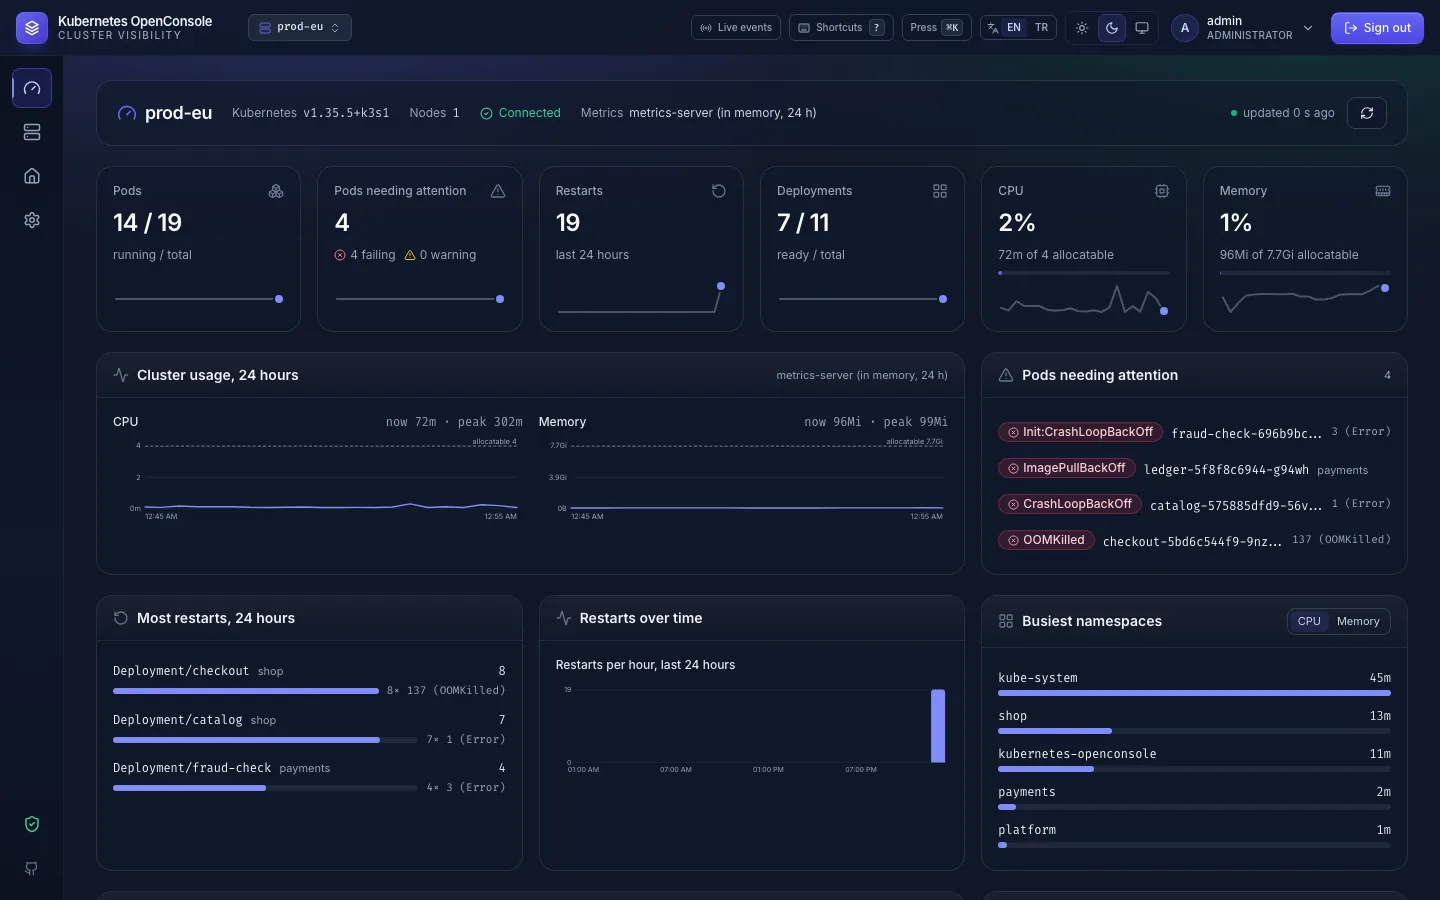
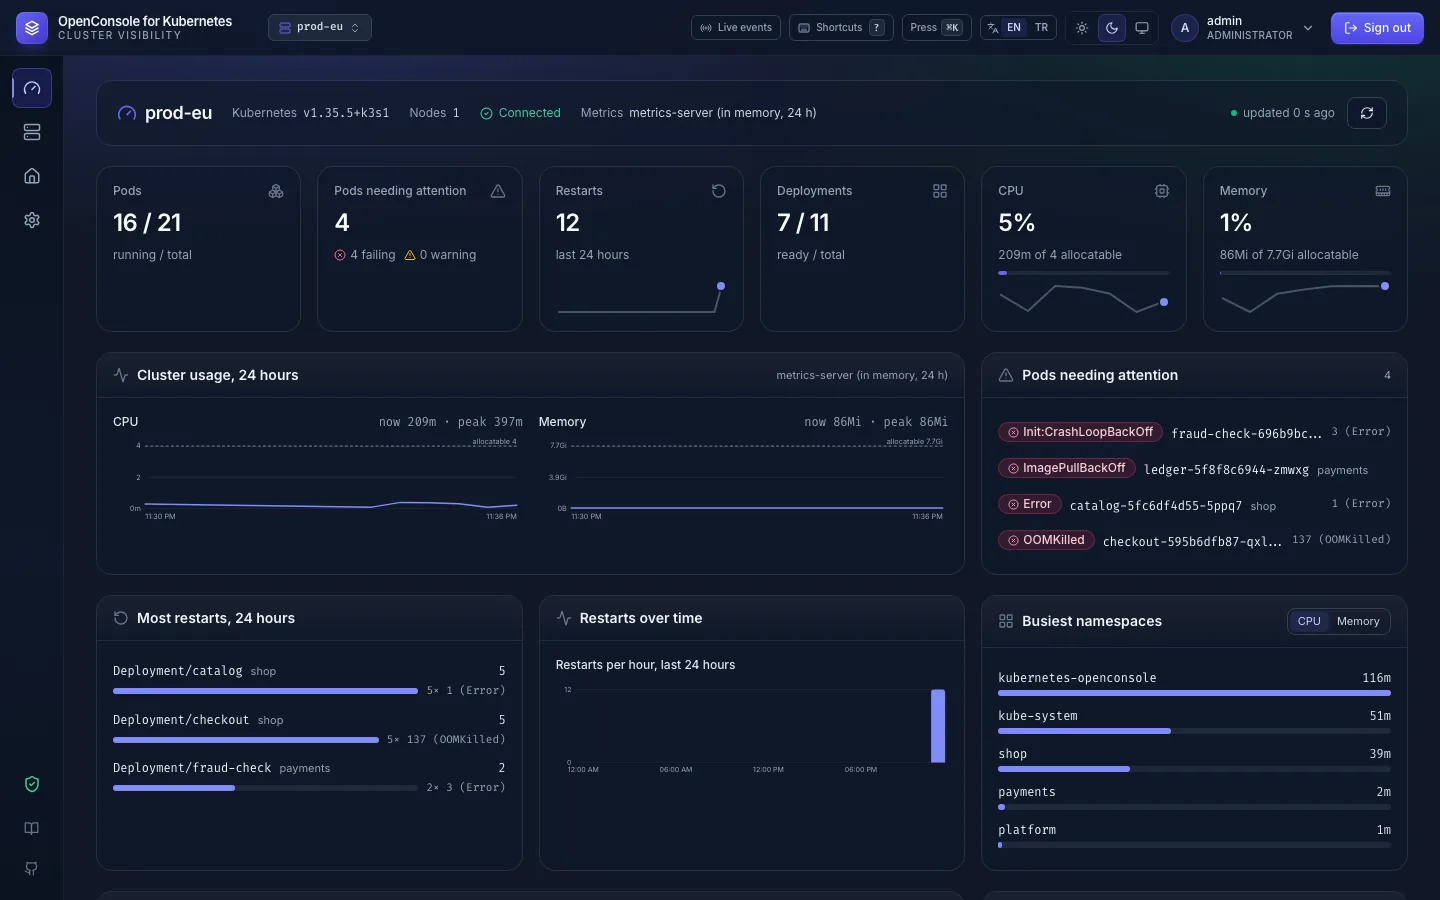
OpenConsole for Kubernetes 2.23.1: pins, screenshots and docs reference

diff --git a/_posts/2026-01-16-kubernetes-openconsole-dashboard-ui.md b/_posts/2026-01-16-kubernetes-openconsole-dashboard-ui.md
@@ -1,7 +1,7 @@
 ---
 title: "OpenConsole for Kubernetes: Multi-Cluster Operations and API Access"
 date: 2026-01-16 19:20:00 +0300
-last_modified_at: 2026-11-16 20:30:00 +0300
+last_modified_at: 2026-11-17 00:20:00 +0300
 description: "Run OpenConsole for Kubernetes 2.23 with scoped cluster access, live logs, recorded shells and API keys for scripts and AI agents."
 image:
   path: /assets/img/posts/openconsole-2.23/dashboard-cards.en.light.webp
@@ -21,7 +21,7 @@ The distinction matters: **the current console is not read-only by default at th
 
 [Read the documentation](https://k8sopenconsole.github.io/) · [Türkçe dokümantasyon](https://k8sopenconsole.github.io/tr/) · [Source and releases](https://github.com/vurulkan/kubernetes-openconsole).
 
-This guide follows the published **2.23** documentation and **2.23.0** image. The screenshots come from the documentation project's demo environment; the workloads and users shown are fictional.
+This guide follows the published **2.23** documentation and **2.23.1** image. The screenshots come from the documentation project's demo environment; the workloads and users shown are fictional.
 
 ## What the current console includes
 
@@ -75,10 +75,10 @@ The pod does **not** automatically adopt its mounted ServiceAccount or discover 
 
 ## Choose an image
 
-The published 2.23 documentation pins release `2.23.0`:
+The published 2.23 documentation pins release `2.23.1`:
 
 ```yaml
-image: ghcr.io/vurulkan/kubernetes-openconsole:2.23.0
+image: ghcr.io/vurulkan/kubernetes-openconsole:2.23.1
 ```
 
 Release images support `linux/amd64` and `linux/arm64`. Pin a release for a reproducible installation. `latest` follows published releases; development images use separate `dev-*` tags. Release images include GitHub build-provenance and SBOM attestations; verification commands are in the repository README.
@@ -95,7 +95,7 @@ docker build -t kubernetes-openconsole:local .
 docker run --rm -p 127.0.0.1:8080:8080 \
   -e TIMEZONE=Europe/Istanbul \
   -v kubernetes-openconsole-data:/data \
-  ghcr.io/vurulkan/kubernetes-openconsole:2.23.0
+  ghcr.io/vurulkan/kubernetes-openconsole:2.23.1
 ```
 
 Open `http://localhost:8080`. The named volume preserves the SQLite database and recordings. This starts the console; cluster access is configured through the UI afterwards.
@@ -110,10 +110,10 @@ Use a small Kustomize directory that pins both the release manifests and the ima
 apiVersion: kustomize.config.k8s.io/v1beta1
 kind: Kustomization
 resources:
-  - https://github.com/vurulkan/kubernetes-openconsole//deploy?ref=v2.23.0
+  - https://github.com/vurulkan/kubernetes-openconsole//deploy?ref=v2.23.1
 images:
   - name: ghcr.io/vurulkan/kubernetes-openconsole
-    newTag: "2.23.0"
+    newTag: "2.23.1"
 patches:
   - patch: |-
       apiVersion: apps/v1
@@ -136,8 +136,8 @@ kubectl -n kubernetes-openconsole rollout status deploy/kubernetes-openconsole -
 
 Before applying, review the manifests for your environment:
 
-- The source manifest uses `latest`; the `images` override pins the container to the same release as `ref=v2.23.0`.
-- Keep **exactly one replica** and the **`Recreate` strategy**. In 2.23.0, overlapping pods can open the same SQLite database and lose writes. `Recreate` stops the old pod before starting its replacement, including during a rollout restart.
+- The source manifest uses `latest`; the `images` override pins the container to the same release as `ref=v2.23.1`.
+- Keep **exactly one replica** and the **`Recreate` strategy** (the release manifests use it since 2.23.1; the patch above keeps it explicit). Overlapping pods would open the same SQLite database, and on 2.23.0 that could lose writes. `Recreate` stops the old pod before starting its replacement, including during a rollout restart.
 - The default PVC is 5 Gi and stores both the database and recordings. Plan capacity and backups accordingly.
 - The Service exposes port 80 to container port 8080. Put your own Ingress or Gateway in front of it.
 - The deployment runs without an automatically mounted ServiceAccount token. Cluster credentials are supplied through the UI.
@@ -266,6 +266,6 @@ Backups need the same access restrictions as the cluster credentials. The docume
 - [Kubernetes HA on RHEL](/posts/ansible-k8s-ha-cluster-rhel/)
 - [Kubernetes HA on Debian](/posts/ansible-k8s-ha-cluster-debian/)
 
-Updated on November 15, 2026 against the [published 2.23 documentation at `8839e18`](https://github.com/k8sopenconsole/k8sopenconsole.github.io/tree/8839e180aeb5fb6ea14cf89e6e723b0681fc2e4d/versioned_docs/version-2.23), whose code reference is `v2.23.0`. The site's published version was used rather than its unreleased Next pages. The commands were checked against that documentation; this article update did not deploy or test a live cluster.
+Updated on November 17, 2026 against the [published 2.23 documentation at `22cb78a`](https://github.com/k8sopenconsole/k8sopenconsole.github.io/tree/22cb78ab9519b91ebb63703f395d662b4a3fa2d9/versioned_docs/version-2.23), whose code reference is `v2.23.0`. The site's published version was used rather than its unreleased Next pages. The commands were checked against that documentation; this article update did not deploy or test a live cluster.
 
-Screenshots are reproduced unchanged from the [OpenConsole for Kubernetes documentation project](https://github.com/k8sopenconsole/k8sopenconsole.github.io/tree/8839e180aeb5fb6ea14cf89e6e723b0681fc2e4d/static/img/screens), licensed under [CC BY 4.0](https://creativecommons.org/licenses/by/4.0/). They show the project's fictional demo data. The [full documentation](https://k8sopenconsole.github.io/) remains the reference for deployment details, policy settings and troubleshooting.
+Screenshots are reproduced unchanged from the [OpenConsole for Kubernetes documentation project](https://github.com/k8sopenconsole/k8sopenconsole.github.io/tree/22cb78ab9519b91ebb63703f395d662b4a3fa2d9/static/img/screens), licensed under [CC BY 4.0](https://creativecommons.org/licenses/by/4.0/). They show the project's fictional demo data. The [full documentation](https://k8sopenconsole.github.io/) remains the reference for deployment details, policy settings and troubleshooting.
